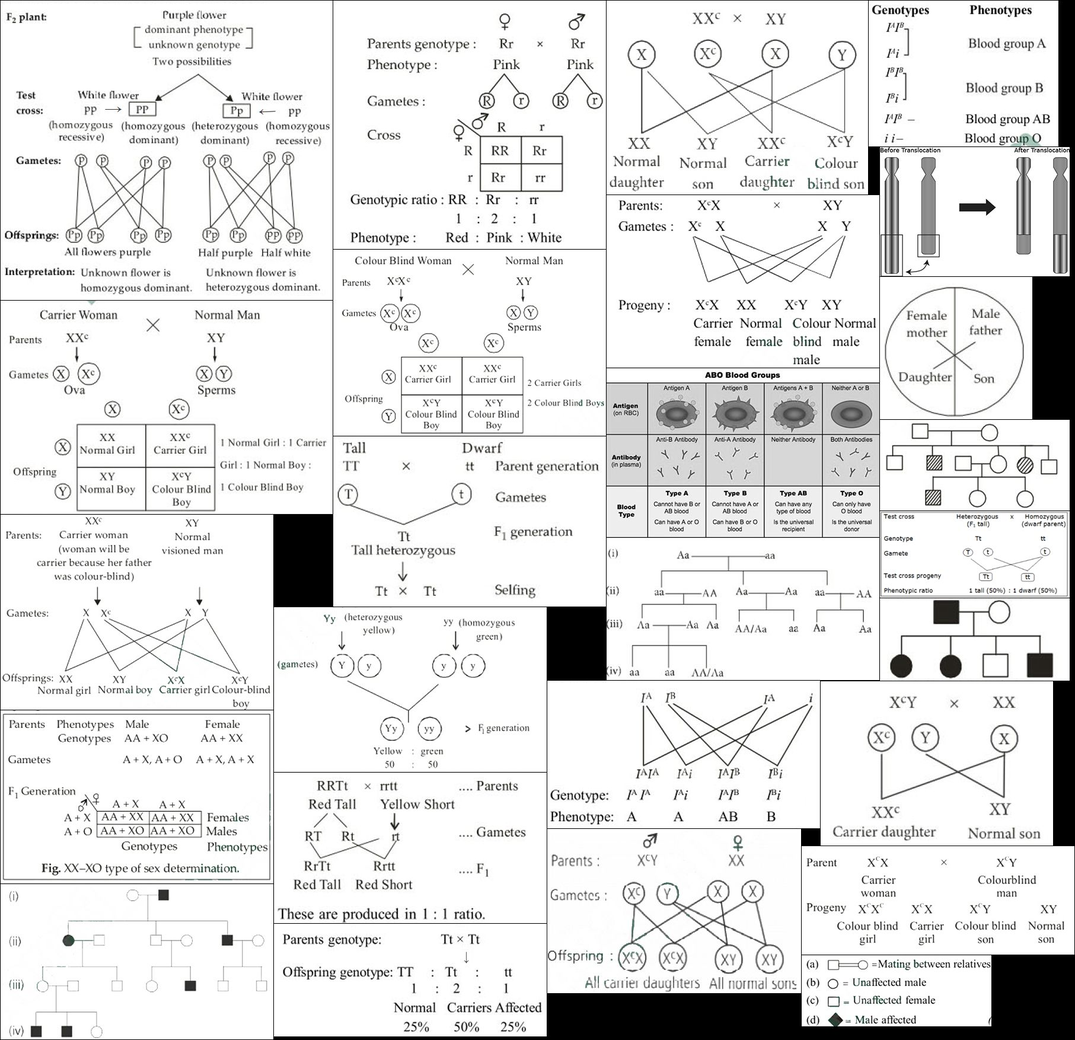
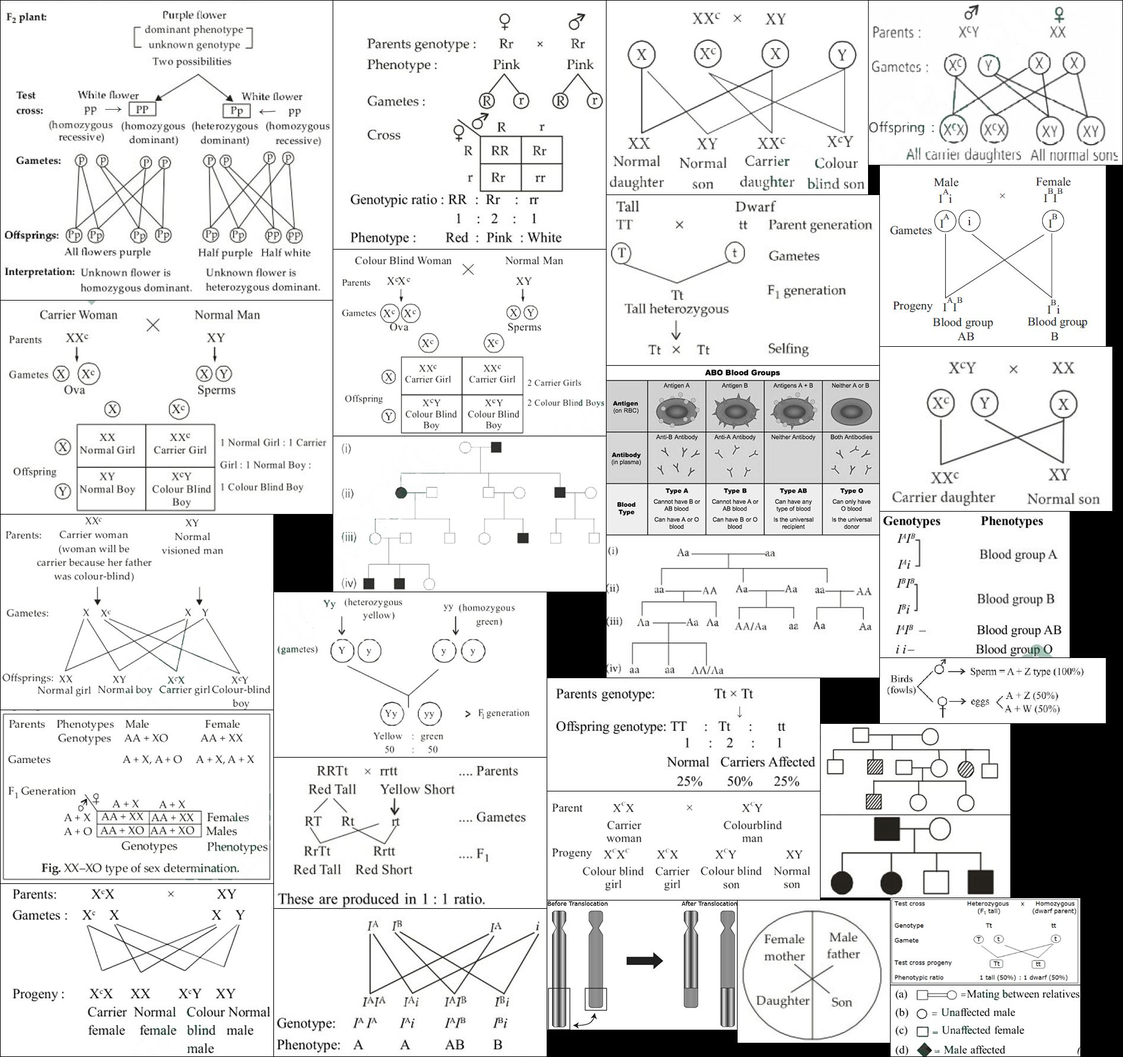
Fixed.

Changed region(s): [[0.0, 0.0, 1.0, 1.0], [0.0, 0.0, 0.0309, 0.0308]]

diff --git a/img/medical/neet/bgchap/biology_ch_27s2.css b/img/medical/neet/bgchap/biology_ch_27s2.css
@@ -8,82 +8,88 @@ Responsive: <div class="yourspritesname"></div>
 
 
 .nt_bg_prin_inheri_10_sol {max-width:460px; max-height:287px; }
-.nt_bg_prin_inheri_10_sol::after {content: '\00a0';display: inline-block; width:460px; height:287px; background-position: 41.537324464153734% 50.17041581458759%;background-size: 394.1304347826087% 611.1498257839721%;background-image: url(biology_ch_27s2.jpg);padding: 0; }
+.nt_bg_prin_inheri_10_sol::after {content: '\00a0';display: inline-block; width:460px; height:287px; background-position: 71.33891213389121% 21.99197860962567%;background-size: 411.7391304347826% 621.2543554006969%;background-image: url(biology_ch_27s2.jpg);padding: 0; }
 div.nt_bg_prin_inheri_10_sol::after {max-width:460px; width:100%;height:0;padding: 0 0 62.391304347826086% 0;}
 .nt_bg_prin_inheri_16_sol_a {max-width:392px; max-height:277px; }
-.nt_bg_prin_inheri_16_sol_a::after {content: '\00a0';display: inline-block; width:392px; height:277px; background-position: 97.39619985925404% 77.79282329045363%;background-size: 462.5% 633.2129963898917%;background-image: url(biology_ch_27s2.jpg);padding: 0; }
+.nt_bg_prin_inheri_16_sol_a::after {content: '\00a0';display: inline-block; width:392px; height:277px; background-position: 98.80159786950732% 38.844621513944226%;background-size: 483.16326530612247% 643.6823104693141%;background-image: url(biology_ch_27s2.jpg);padding: 0; }
 div.nt_bg_prin_inheri_16_sol_a::after {max-width:392px; width:100%;height:0;padding: 0 0 70.66326530612245% 0;}
 .nt_bg_prin_inheri_16_sol_b {max-width:441px; max-height:327px; }
-.nt_bg_prin_inheri_16_sol_b::after {content: '\00a0';display: inline-block; width:441px; height:327px; background-position: 74.56268221574344% 0.0700770847932726%;background-size: 411.1111111111111% 536.3914373088685%;background-image: url(biology_ch_27s2.jpg);padding: 0; }
+.nt_bg_prin_inheri_16_sol_b::after {content: '\00a0';display: inline-block; width:441px; height:327px; background-position: 70.40605643496215% 0.06868131868131869%;background-size: 429.4784580498866% 545.2599388379205%;background-image: url(biology_ch_27s2.jpg);padding: 0; }
 div.nt_bg_prin_inheri_16_sol_b::after {max-width:441px; width:100%;height:0;padding: 0 0 74.14965986394557% 0;}
 .nt_bg_prin_inheri_18 {max-width:460px; max-height:262px; }
-.nt_bg_prin_inheri_18::after {content: '\00a0';display: inline-block; width:460px; height:262px; background-position: 0.07390983000739099% 99.93297587131367%;background-size: 394.1304347826087% 669.4656488549618%;background-image: url(biology_ch_27s2.jpg);padding: 0; }
+.nt_bg_prin_inheri_18::after {content: '\00a0';display: inline-block; width:460px; height:262px; background-position: 39.19107391910739% 48.38921761998685%;background-size: 411.7391304347826% 680.5343511450382%;background-image: url(biology_ch_27s2.jpg);padding: 0; }
 div.nt_bg_prin_inheri_18::after {max-width:460px; width:100%;height:0;padding: 0 0 56.95652173913044% 0;}
 .nt_bg_prin_inheri_18_sol {max-width:460px; max-height:240px; }
-.nt_bg_prin_inheri_18_sol::after {content: '\00a0';display: inline-block; width:460px; height:240px; background-position: 75.60975609756098% 59.90752972258917%;background-size: 394.1304347826087% 730.8333333333334%;background-image: url(biology_ch_27s2.jpg);padding: 0; }
+.nt_bg_prin_inheri_18_sol::after {content: '\00a0';display: inline-block; width:460px; height:240px; background-position: 71.33891213389121% 58.52235904082955%;background-size: 411.7391304347826% 742.9166666666666%;background-image: url(biology_ch_27s2.jpg);padding: 0; }
 div.nt_bg_prin_inheri_18_sol::after {max-width:460px; width:100%;height:0;padding: 0 0 52.17391304347826% 0;}
+.nt_bg_prin_inheri_2019_1_sol {max-width:381px; max-height:305px; }
+.nt_bg_prin_inheri_2019_1_sol::after {content: '\00a0';display: inline-block; width:381px; height:305px; background-position: 98.08327825512228% 18.876860622462786%;background-size: 497.1128608923884% 584.5901639344262%;background-image: url(biology_ch_27s2.jpg);padding: 0; }
+div.nt_bg_prin_inheri_2019_1_sol::after {max-width:381px; width:100%;height:0;padding: 0 0 80.05249343832021% 0;}
+.nt_bg_prin_inheri_2019_2_sol {max-width:381px; max-height:110px; }
+.nt_bg_prin_inheri_2019_2_sol::after {content: '\00a0';display: inline-block; width:381px; height:110px; background-position: 98.08327825512228% 66.34787806335923%;background-size: 497.1128608923884% 1620.909090909091%;background-image: url(biology_ch_27s2.jpg);padding: 0; }
+div.nt_bg_prin_inheri_2019_2_sol::after {max-width:381px; width:100%;height:0;padding: 0 0 28.871391076115486% 0;}
 .nt_bg_prin_inheri_20_sol {max-width:320px; max-height:218px; }
-.nt_bg_prin_inheri_20_sol::after {content: '\00a0';display: inline-block; width:320px; height:218px; background-position: 99.39718687206965% 16.145833333333332%;background-size: 566.5625% 804.5871559633027%;background-image: url(biology_ch_27s2.jpg);padding: 0; }
+.nt_bg_prin_inheri_20_sol::after {content: '\00a0';display: inline-block; width:320px; height:218px; background-position: 58.64040660736976% 97.06070287539936%;background-size: 591.875% 817.8899082568807%;background-image: url(biology_ch_27s2.jpg);padding: 0; }
 div.nt_bg_prin_inheri_20_sol::after {max-width:320px; width:100%;height:0;padding: 0 0 68.125% 0;}
 .nt_bg_prin_inheri_27_sol {max-width:460px; max-height:291px; }
-.nt_bg_prin_inheri_27_sol::after {content: '\00a0';display: inline-block; width:460px; height:291px; background-position: 75.60975609756098% 22.48803827751196%;background-size: 394.1304347826087% 602.7491408934708%;background-image: url(biology_ch_27s2.jpg);padding: 0; }
+.nt_bg_prin_inheri_27_sol::after {content: '\00a0';display: inline-block; width:460px; height:291px; background-position: 0.0697350069735007% 99.93297587131367%;background-size: 411.7391304347826% 612.7147766323025%;background-image: url(biology_ch_27s2.jpg);padding: 0; }
 div.nt_bg_prin_inheri_27_sol::after {max-width:460px; width:100%;height:0;padding: 0 0 63.26086956521739% 0;}
 .nt_bg_prin_inheri_2_sol {max-width:460px; max-height:249px; }
-.nt_bg_prin_inheri_2_sol::after {content: '\00a0';display: inline-block; width:460px; height:249px; background-position: 68.21877309682188% 76.27906976744185%;background-size: 394.1304347826087% 704.4176706827309%;background-image: url(biology_ch_27s2.jpg);padding: 0; }
+.nt_bg_prin_inheri_2_sol::after {content: '\00a0';display: inline-block; width:460px; height:249px; background-position: 32.21757322175732% 99.9348109517601%;background-size: 411.7391304347826% 716.0642570281125%;background-image: url(biology_ch_27s2.jpg);padding: 0; }
 div.nt_bg_prin_inheri_2_sol::after {max-width:460px; width:100%;height:0;padding: 0 0 54.130434782608695% 0;}
 .nt_bg_prin_inheri_31_sol {max-width:460px; max-height:190px; }
-.nt_bg_prin_inheri_31_sol::after {content: '\00a0';display: inline-block; width:460px; height:190px; background-position: 34.146341463414636% 99.61636828644501%;background-size: 394.1304347826087% 923.1578947368421%;background-image: url(biology_ch_27s2.jpg);padding: 0; }
+.nt_bg_prin_inheri_31_sol::after {content: '\00a0';display: inline-block; width:460px; height:190px; background-position: 64.36541143654114% 71.81418706842436%;background-size: 411.7391304347826% 938.421052631579%;background-image: url(biology_ch_27s2.jpg);padding: 0; }
 div.nt_bg_prin_inheri_31_sol::after {max-width:460px; width:100%;height:0;padding: 0 0 41.30434782608695% 0;}
 .nt_bg_prin_inheri_36_sol {max-width:460px; max-height:329px; }
-.nt_bg_prin_inheri_36_sol::after {content: '\00a0';display: inline-block; width:460px; height:329px; background-position: 0.07390983000739099% 60.91228070175438%;background-size: 394.1304347826087% 533.1306990881459%;background-image: url(biology_ch_27s2.jpg);padding: 0; }
+.nt_bg_prin_inheri_36_sol::after {content: '\00a0';display: inline-block; width:460px; height:329px; background-position: 0.0697350069735007% 59.69738651994498%;background-size: 411.7391304347826% 541.9452887537994%;background-image: url(biology_ch_27s2.jpg);padding: 0; }
 div.nt_bg_prin_inheri_36_sol::after {max-width:460px; width:100%;height:0;padding: 0 0 71.52173913043478% 0;}
 .nt_bg_prin_inheri_38 {max-width:257px; max-height:240px; }
-.nt_bg_prin_inheri_38::after {content: '\00a0';display: inline-block; width:257px; height:240px; background-position: 95.37275064267352% 30.84544253632761%;background-size: 705.4474708171206% 730.8333333333334%;background-image: url(biology_ch_27s2.jpg);padding: 0; }
+.nt_bg_prin_inheri_38::after {content: '\00a0';display: inline-block; width:257px; height:240px; background-position: 75.9926695174099% 98.44458846403111%;background-size: 736.964980544747% 742.9166666666666%;background-image: url(biology_ch_27s2.jpg);padding: 0; }
 div.nt_bg_prin_inheri_38::after {max-width:257px; width:100%;height:0;padding: 0 0 93.3852140077821% 0;}
 .nt_bg_prin_inheri_39_sol {max-width:560px; max-height:505px; }
-.nt_bg_prin_inheri_39_sol::after {content: '\00a0';display: inline-block; width:560px; height:505px; background-position: 0.07980845969672785% 0.08006405124099279%;background-size: 323.75% 347.3267326732673%;background-image: url(biology_ch_27s2.jpg);padding: 0; }
+.nt_bg_prin_inheri_39_sol::after {content: '\00a0';display: inline-block; width:560px; height:505px; background-position: 0.07496251874062969% 0.0782472613458529%;background-size: 338.2142857142857% 353.0693069306931%;background-image: url(biology_ch_27s2.jpg);padding: 0; }
 div.nt_bg_prin_inheri_39_sol::after {max-width:560px; width:100%;height:0;padding: 0 0 90.17857142857143% 0;}
 .nt_bg_prin_inheri_41_sol {max-width:460px; max-height:292px; }
-.nt_bg_prin_inheri_41_sol::after {content: '\00a0';display: inline-block; width:460px; height:292px; background-position: 0.07390983000739099% 81.94254445964432%;background-size: 394.1304347826087% 600.6849315068494%;background-image: url(biology_ch_27s2.jpg);padding: 0; }
+.nt_bg_prin_inheri_41_sol::after {content: '\00a0';display: inline-block; width:460px; height:292px; background-position: 0.0697350069735007% 80.34875922199866%;background-size: 411.7391304347826% 610.6164383561644%;background-image: url(biology_ch_27s2.jpg);padding: 0; }
 div.nt_bg_prin_inheri_41_sol::after {max-width:460px; width:100%;height:0;padding: 0 0 63.47826086956522% 0;}
 .nt_bg_prin_inheri_44 {max-width:320px; max-height:120px; }
-.nt_bg_prin_inheri_44::after {content: '\00a0';display: inline-block; width:320px; height:120px; background-position: 90.55592766242465% 98.59241126070991%;background-size: 566.5625% 1461.6666666666667%;background-image: url(biology_ch_27s2.jpg);padding: 0; }
+.nt_bg_prin_inheri_44::after {content: '\00a0';display: inline-block; width:320px; height:120px; background-position: 95.42566709021601% 99.93986770895971%;background-size: 591.875% 1485.8333333333333%;background-image: url(biology_ch_27s2.jpg);padding: 0; }
 div.nt_bg_prin_inheri_44::after {max-width:320px; width:100%;height:0;padding: 0 0 37.5% 0;}
 .nt_bg_prin_inheri_45_sol {max-width:320px; max-height:246px; }
-.nt_bg_prin_inheri_45_sol::after {content: '\00a0';display: inline-block; width:320px; height:246px; background-position: 98.12458137977227% 0.06631299734748011%;background-size: 566.5625% 713.0081300813008%;background-image: url(biology_ch_27s2.jpg);padding: 0; }
+.nt_bg_prin_inheri_45_sol::after {content: '\00a0';display: inline-block; width:320px; height:246px; background-position: 94.28208386277001% 56.14834092387768%;background-size: 591.875% 724.7967479674796%;background-image: url(biology_ch_27s2.jpg);padding: 0; }
 div.nt_bg_prin_inheri_45_sol::after {max-width:320px; width:100%;height:0;padding: 0 0 76.875% 0;}
 .nt_bg_prin_inheri_49_sol {max-width:460px; max-height:285px; }
-.nt_bg_prin_inheri_49_sol::after {content: '\00a0';display: inline-block; width:460px; height:285px; background-position: 75.60975609756098% 42.27365554799183%;background-size: 394.1304347826087% 615.438596491228%;background-image: url(biology_ch_27s2.jpg);padding: 0; }
+.nt_bg_prin_inheri_49_sol::after {content: '\00a0';display: inline-block; width:460px; height:285px; background-position: 71.33891213389121% 41.18825100133511%;background-size: 411.7391304347826% 625.6140350877193%;background-image: url(biology_ch_27s2.jpg);padding: 0; }
 div.nt_bg_prin_inheri_49_sol::after {max-width:460px; width:100%;height:0;padding: 0 0 61.95652173913044% 0;}
 .nt_bg_prin_inheri_50 {max-width:320px; max-height:139px; }
-.nt_bg_prin_inheri_50::after {content: '\00a0';display: inline-block; width:320px; height:139px; background-position: 99.39718687206965% 62.476780185758514%;background-size: 566.5625% 1261.8705035971223%;background-image: url(biology_ch_27s2.jpg);padding: 0; }
+.nt_bg_prin_inheri_50::after {content: '\00a0';display: inline-block; width:320px; height:139px; background-position: 87.92884371029226% 83.63746958637469%;background-size: 591.875% 1282.7338129496402%;background-image: url(biology_ch_27s2.jpg);padding: 0; }
 div.nt_bg_prin_inheri_50::after {max-width:320px; width:100%;height:0;padding: 0 0 43.4375% 0;}
 .nt_bg_prin_inheri_52_sol {max-width:460px; max-height:419px; }
-.nt_bg_prin_inheri_52_sol::after {content: '\00a0';display: inline-block; width:460px; height:419px; background-position: 41.537324464153734% 0.0749063670411985%;background-size: 394.1304347826087% 418.6157517899761%;background-image: url(biology_ch_27s2.jpg);padding: 0; }
+.nt_bg_prin_inheri_52_sol::after {content: '\00a0';display: inline-block; width:460px; height:419px; background-position: 39.19107391910739% 0.07331378299120235%;background-size: 411.7391304347826% 425.5369928400955%;background-image: url(biology_ch_27s2.jpg);padding: 0; }
 div.nt_bg_prin_inheri_52_sol::after {max-width:460px; width:100%;height:0;padding: 0 0 91.08695652173913% 0;}
 .nt_bg_prin_inheri_57 {max-width:320px; max-height:153px; }
-.nt_bg_prin_inheri_57::after {content: '\00a0';display: inline-block; width:320px; height:153px; background-position: 99.39718687206965% 44.22236102435978%;background-size: 566.5625% 1146.4052287581699%;background-image: url(biology_ch_27s2.jpg);padding: 0; }
+.nt_bg_prin_inheri_57::after {content: '\00a0';display: inline-block; width:320px; height:153px; background-position: 87.92884371029226% 74.9079754601227%;background-size: 591.875% 1165.359477124183%;background-image: url(biology_ch_27s2.jpg);padding: 0; }
 div.nt_bg_prin_inheri_57::after {max-width:320px; width:100%;height:0;padding: 0 0 47.8125% 0;}
 .nt_bg_prin_inheri_60_sol {max-width:460px; max-height:278px; }
-.nt_bg_prin_inheri_60_sol::after {content: '\00a0';display: inline-block; width:460px; height:278px; background-position: 34.146341463414636% 69.37669376693766%;background-size: 394.1304347826087% 630.9352517985611%;background-image: url(biology_ch_27s2.jpg);padding: 0; }
+.nt_bg_prin_inheri_60_sol::after {content: '\00a0';display: inline-block; width:460px; height:278px; background-position: 32.21757322175732% 66.37873754152824%;background-size: 411.7391304347826% 641.3669064748201%;background-image: url(biology_ch_27s2.jpg);padding: 0; }
 div.nt_bg_prin_inheri_60_sol::after {max-width:460px; width:100%;height:0;padding: 0 0 60.43478260869565% 0;}
 .nt_bg_prin_inheri_64_sol {max-width:320px; max-height:146px; }
-.nt_bg_prin_inheri_64_sol::after {content: '\00a0';display: inline-block; width:320px; height:146px; background-position: 99.39718687206965% 53.60696517412935%;background-size: 566.5625% 1201.3698630136987%;background-image: url(biology_ch_27s2.jpg);padding: 0; }
+.nt_bg_prin_inheri_64_sol::after {content: '\00a0';display: inline-block; width:320px; height:146px; background-position: 95.42566709021601% 92.5473427000611%;background-size: 591.875% 1221.2328767123288%;background-image: url(biology_ch_27s2.jpg);padding: 0; }
 div.nt_bg_prin_inheri_64_sol::after {max-width:320px; width:100%;height:0;padding: 0 0 45.625% 0;}
 .nt_bg_prin_inheri_66_sol {max-width:460px; max-height:314px; }
-.nt_bg_prin_inheri_66_sol::after {content: '\00a0';display: inline-block; width:460px; height:314px; background-position: 41.537324464153734% 29.23611111111111%;background-size: 394.1304347826087% 558.5987261146497%;background-image: url(biology_ch_27s2.jpg);padding: 0; }
+.nt_bg_prin_inheri_66_sol::after {content: '\00a0';display: inline-block; width:460px; height:314px; background-position: 39.19107391910739% 28.658951667801226%;background-size: 411.7391304347826% 567.8343949044586%;background-image: url(biology_ch_27s2.jpg);padding: 0; }
 div.nt_bg_prin_inheri_66_sol::after {max-width:460px; width:100%;height:0;padding: 0 0 68.26086956521739% 0;}
 .nt_bg_prin_inheri_75_sol {max-width:560px; max-height:360px; }
-.nt_bg_prin_inheri_75_sol::after {content: '\00a0';display: inline-block; width:560px; height:360px; background-position: 0.07980845969672785% 36.37015781922525%;background-size: 323.75% 487.22222222222223%;background-image: url(biology_ch_27s2.jpg);padding: 0; }
+.nt_bg_prin_inheri_75_sol::after {content: '\00a0';display: inline-block; width:560px; height:360px; background-position: 0.07496251874062969% 35.628952916373855%;background-size: 338.2142857142857% 495.27777777777777%;background-image: url(biology_ch_27s2.jpg);padding: 0; }
 div.nt_bg_prin_inheri_75_sol::after {max-width:560px; width:100%;height:0;padding: 0 0 64.28571428571429% 0;}
 .nt_bg_prin_inheri_79_sol {max-width:460px; max-height:183px; }
-.nt_bg_prin_inheri_79_sol::after {content: '\00a0';display: inline-block; width:460px; height:183px; background-position: 99.9260901699926% 90.83386378103118%;background-size: 394.1304347826087% 958.4699453551913%;background-image: url(biology_ch_27s2.jpg);padding: 0; }
+.nt_bg_prin_inheri_79_sol::after {content: '\00a0';display: inline-block; width:460px; height:183px; background-position: 64.36541143654114% 83.4375%;background-size: 411.7391304347826% 974.3169398907104%;background-image: url(biology_ch_27s2.jpg);padding: 0; }
 div.nt_bg_prin_inheri_79_sol::after {max-width:460px; width:100%;height:0;padding: 0 0 39.78260869565217% 0;}
 .nt_bg_prin_inheri_7_sol {max-width:428px; max-height:277px; }
-.nt_bg_prin_inheri_7_sol::after {content: '\00a0';display: inline-block; width:428px; height:277px; background-position: 66.64259927797833% 94.6513202437373%;background-size: 423.5981308411215% 633.2129963898917%;background-image: url(biology_ch_27s2.jpg);padding: 0; }
+.nt_bg_prin_inheri_7_sol::after {content: '\00a0';display: inline-block; width:428px; height:277px; background-position: 99.93178717598909% 0.06640106241699867%;background-size: 442.5233644859813% 643.6823104693141%;background-image: url(biology_ch_27s2.jpg);padding: 0; }
 div.nt_bg_prin_inheri_7_sol::after {max-width:428px; width:100%;height:0;padding: 0 0 64.7196261682243% 0;}
 .nt_bg_prin_inheri_80_sol {max-width:460px; max-height:254px; }
-.nt_bg_prin_inheri_80_sol::after {content: '\00a0';display: inline-block; width:460px; height:254px; background-position: 34.146341463414636% 86.86666666666666%;background-size: 394.1304347826087% 690.5511811023622%;background-image: url(biology_ch_27s2.jpg);padding: 0; }
+.nt_bg_prin_inheri_80_sol::after {content: '\00a0';display: inline-block; width:460px; height:254px; background-position: 32.21757322175732% 83.58404185742316%;background-size: 411.7391304347826% 701.9685039370079%;background-image: url(biology_ch_27s2.jpg);padding: 0; }
 div.nt_bg_prin_inheri_80_sol::after {max-width:460px; width:100%;height:0;padding: 0 0 55.21739130434783% 0;}
 
-/* $TexturePacker:SmartUpdate:23866e91262fa1679787550627d9732a:9ca9df8369697e671e5f0b37e3e93854:e19ce29bf94abcca14d977675cac6c6d$ */
+/* $TexturePacker:SmartUpdate:72c0e6a6eb834f5d9f926ae209124d9a:e884ef3cbd6f66250edd1f5392a402cb:e19ce29bf94abcca14d977675cac6c6d$ */

diff --git a/img/medical/neet/bgchap/biology_ch_28_30.css b/img/medical/neet/bgchap/biology_ch_28_30.css
@@ -8,34 +8,37 @@ Responsive: <div class="yourspritesname"></div>
 
 
 .nt_bg_human_health_15 {max-width:285px; max-height:281px; }
-.nt_bg_human_health_15::after {content: '\00a0';display: inline-block; width:285px; height:281px; background-position: 99.93975903614458% 0.5076142131979695%;background-size: 682.4561403508771% 170.1067615658363%;background-image: url(biology_ch_28_30.jpg);padding: 0; }
+.nt_bg_human_health_15::after {content: '\00a0';display: inline-block; width:285px; height:281px; background-position: 50.78313253012048% 0.5076142131979695%;background-size: 682.4561403508771% 170.1067615658363%;background-image: url(biology_ch_28_30.jpg);padding: 0; }
 div.nt_bg_human_health_15::after {max-width:285px; width:100%;height:0;padding: 0 0 98.59649122807018% 0;}
 .nt_bg_human_health_26a {max-width:460px; max-height:314px; }
-.nt_bg_human_health_26a::after {content: '\00a0';display: inline-block; width:460px; height:314px; background-position: 0.06734006734006734% 0.6097560975609756%;background-size: 422.82608695652175% 152.22929936305732%;background-image: url(biology_ch_28_30.jpg);padding: 0; }
+.nt_bg_human_health_26a::after {content: '\00a0';display: inline-block; width:460px; height:314px; background-position: 25.723905723905723% 0.6097560975609756%;background-size: 422.82608695652175% 152.22929936305732%;background-image: url(biology_ch_28_30.jpg);padding: 0; }
 div.nt_bg_human_health_26a::after {max-width:460px; width:100%;height:0;padding: 0 0 68.26086956521739% 0;}
 .nt_bg_human_health_26b {max-width:320px; max-height:121px; }
-.nt_bg_human_health_26b::after {content: '\00a0';display: inline-block; width:320px; height:121px; background-position: 28.43076923076923% 98.31932773109244%;background-size: 607.8125% 395.0413223140496%;background-image: url(biology_ch_28_30.jpg);padding: 0; }
+.nt_bg_human_health_26b::after {content: '\00a0';display: inline-block; width:320px; height:121px; background-position: 0.06153846153846154% 98.31932773109244%;background-size: 607.8125% 395.0413223140496%;background-image: url(biology_ch_28_30.jpg);padding: 0; }
 div.nt_bg_human_health_26b::after {max-width:320px; width:100%;height:0;padding: 0 0 37.8125% 0;}
 .nt_bg_mole_basis_inheri_123_sol {max-width:460px; max-height:254px; }
-.nt_bg_mole_basis_inheri_123_sol::after {content: '\00a0';display: inline-block; width:460px; height:254px; background-position: 56.76767676767677% 0.44642857142857145%;background-size: 422.82608695652175% 188.18897637795277%;background-image: url(biology_ch_28_30.jpg);padding: 0; }
+.nt_bg_mole_basis_inheri_123_sol::after {content: '\00a0';display: inline-block; width:460px; height:254px; background-position: 99.93265993265993% 0.44642857142857145%;background-size: 422.82608695652175% 188.18897637795277%;background-image: url(biology_ch_28_30.jpg);padding: 0; }
 div.nt_bg_mole_basis_inheri_123_sol::after {max-width:460px; width:100%;height:0;padding: 0 0 55.21739130434783% 0;}
 .nt_bg_mole_basis_inheri_1_sol {max-width:354px; max-height:280px; }
-.nt_bg_mole_basis_inheri_1_sol::after {content: '\00a0';display: inline-block; width:354px; height:280px; background-position: 81.9610307982401% 0.5050505050505051%;background-size: 549.4350282485875% 170.71428571428572%;background-image: url(biology_ch_28_30.jpg);padding: 0; }
+.nt_bg_mole_basis_inheri_1_sol::after {content: '\00a0';display: inline-block; width:354px; height:280px; background-position: 70.96165933375235% 0.5050505050505051%;background-size: 549.4350282485875% 170.71428571428572%;background-image: url(biology_ch_28_30.jpg);padding: 0; }
 div.nt_bg_mole_basis_inheri_1_sol::after {max-width:354px; width:100%;height:0;padding: 0 0 79.09604519774011% 0;}
+.nt_bg_mole_basis_inheri_2019_1_sol {max-width:297px; max-height:119px; }
+.nt_bg_mole_basis_inheri_2019_1_sol::after {content: '\00a0';display: inline-block; width:297px; height:119px; background-position: 19.538834951456312% 97.7715877437326%;background-size: 654.8821548821549% 401.6806722689076%;background-image: url(biology_ch_28_30.jpg);padding: 0; }
+div.nt_bg_mole_basis_inheri_2019_1_sol::after {max-width:297px; width:100%;height:0;padding: 0 0 40.06734006734007% 0;}
 .nt_bg_mole_basis_inheri_25 {max-width:450px; max-height:88px; }
-.nt_bg_mole_basis_inheri_25::after {content: '\00a0';display: inline-block; width:450px; height:88px; background-position: 0.06688963210702341% 81.02564102564102%;background-size: 432.22222222222223% 543.1818181818181%;background-image: url(biology_ch_28_30.jpg);padding: 0; }
+.nt_bg_mole_basis_inheri_25::after {content: '\00a0';display: inline-block; width:450px; height:88px; background-position: 41.47157190635451% 81.02564102564102%;background-size: 432.22222222222223% 543.1818181818181%;background-image: url(biology_ch_28_30.jpg);padding: 0; }
 div.nt_bg_mole_basis_inheri_25::after {max-width:450px; width:100%;height:0;padding: 0 0 19.555555555555557% 0;}
 .nt_bg_mole_basis_inheri_27 {max-width:460px; max-height:57px; }
-.nt_bg_mole_basis_inheri_27::after {content: '\00a0';display: inline-block; width:460px; height:57px; background-position: 0.06734006734006734% 96.19952494061758%;background-size: 422.82608695652175% 838.5964912280701%;background-image: url(biology_ch_28_30.jpg);padding: 0; }
+.nt_bg_mole_basis_inheri_27::after {content: '\00a0';display: inline-block; width:460px; height:57px; background-position: 41.75084175084175% 96.19952494061758%;background-size: 422.82608695652175% 838.5964912280701%;background-image: url(biology_ch_28_30.jpg);padding: 0; }
 div.nt_bg_mole_basis_inheri_27::after {max-width:460px; width:100%;height:0;padding: 0 0 12.391304347826088% 0;}
 .nt_bg_mole_basis_inheri_45_sol {max-width:370px; max-height:194px; }
-.nt_bg_mole_basis_inheri_45_sol::after {content: '\00a0';display: inline-block; width:370px; height:194px; background-position: 82.7936507936508% 99.64788732394366%;background-size: 525.6756756756756% 246.39175257731958%;background-image: url(biology_ch_28_30.jpg);padding: 0; }
+.nt_bg_mole_basis_inheri_45_sol::after {content: '\00a0';display: inline-block; width:370px; height:194px; background-position: 68.63492063492063% 99.64788732394366%;background-size: 525.6756756756756% 246.39175257731958%;background-image: url(biology_ch_28_30.jpg);padding: 0; }
 div.nt_bg_mole_basis_inheri_45_sol::after {max-width:370px; width:100%;height:0;padding: 0 0 52.432432432432435% 0;}
 .nt_bg_mole_basis_inheri_69_sol {max-width:380px; max-height:349px; }
-.nt_bg_mole_basis_inheri_69_sol::after {content: '\00a0';display: inline-block; width:380px; height:349px; background-position: 29.52076677316294% 0.7751937984496124%;background-size: 511.8421052631579% 136.96275071633238%;background-image: url(biology_ch_28_30.jpg);padding: 0; }
+.nt_bg_mole_basis_inheri_69_sol::after {content: '\00a0';display: inline-block; width:380px; height:349px; background-position: 0.06389776357827476% 0.7751937984496124%;background-size: 511.8421052631579% 136.96275071633238%;background-image: url(biology_ch_28_30.jpg);padding: 0; }
 div.nt_bg_mole_basis_inheri_69_sol::after {max-width:380px; width:100%;height:0;padding: 0 0 91.84210526315789% 0;}
 .nt_bg_mole_basis_inheri_83_sol {max-width:460px; max-height:216px; }
-.nt_bg_mole_basis_inheri_83_sol::after {content: '\00a0';display: inline-block; width:460px; height:216px; background-position: 56.76767676767677% 97.70992366412214%;background-size: 422.82608695652175% 221.2962962962963%;background-image: url(biology_ch_28_30.jpg);padding: 0; }
+.nt_bg_mole_basis_inheri_83_sol::after {content: '\00a0';display: inline-block; width:460px; height:216px; background-position: 99.93265993265993% 97.70992366412214%;background-size: 422.82608695652175% 221.2962962962963%;background-image: url(biology_ch_28_30.jpg);padding: 0; }
 div.nt_bg_mole_basis_inheri_83_sol::after {max-width:460px; width:100%;height:0;padding: 0 0 46.95652173913044% 0;}
 
-/* $TexturePacker:SmartUpdate:104e4c76da058ed6987dc56a8285b7e9:e500ba8bbc7386820d6b2cbc1ed41eb6:6cf36d95da68feb3078425e8b31ca2d2$ */
+/* $TexturePacker:SmartUpdate:fa26aa6e90ca6074cc233084e1b3be0b:c1ec816836e29948bdc4f624d931df54:6cf36d95da68feb3078425e8b31ca2d2$ */

diff --git a/img/medical/neet/bgchap/biology_ch_31_35.css b/img/medical/neet/bgchap/biology_ch_31_35.css
@@ -7,29 +7,32 @@ Responsive: <div class="yourspritesname"></div>
 */
 
 
+.nt_bg_biotechnology_prin_2019_1_sol {max-width:352px; max-height:317px; }
+.nt_bg_biotechnology_prin_2019_1_sol::after {content: '\00a0';display: inline-block; width:352px; height:317px; background-position: 76.05893186003684% 93.40501792114695%;background-size: 254.26136363636363% 540.0630914826498%;background-image: url(biology_ch_31_35.jpg);padding: 0; }
+div.nt_bg_biotechnology_prin_2019_1_sol::after {max-width:352px; width:100%;height:0;padding: 0 0 90.05681818181819% 0;}
 .nt_bg_biotechnology_prin_23 {max-width:320px; max-height:285px; }
-.nt_bg_biotechnology_prin_23::after {content: '\00a0';display: inline-block; width:320px; height:285px; background-position: 78.11080835603997% 62.880886426592795%;background-size: 444.0625% 353.3333333333333%;background-image: url(biology_ch_31_35.jpg);padding: 0; }
+.nt_bg_biotechnology_prin_23::after {content: '\00a0';display: inline-block; width:320px; height:285px; background-position: 97.73913043478261% 18.500350385423967%;background-size: 279.6875% 600.7017543859649%;background-image: url(biology_ch_31_35.jpg);padding: 0; }
 div.nt_bg_biotechnology_prin_23::after {max-width:320px; width:100%;height:0;padding: 0 0 89.0625% 0;}
-.nt_bg_biotechnology_prin_30 {max-width:460px; max-height:298px; }
-.nt_bg_biotechnology_prin_30::after {content: '\00a0';display: inline-block; width:460px; height:298px; background-position: 41.51925078043705% 63.751763046544426%;background-size: 308.9130434782609% 337.91946308724835%;background-image: url(biology_ch_31_35.jpg);padding: 0; }
-div.nt_bg_biotechnology_prin_30::after {max-width:460px; width:100%;height:0;padding: 0 0 64.78260869565217% 0;}
+.nt_bg_biotechnology_prin_30 {max-width:485px; max-height:307px; }
+.nt_bg_biotechnology_prin_30::after {content: '\00a0';display: inline-block; width:485px; height:307px; background-position: 0.24390243902439024% 32.170818505338076%;background-size: 184.53608247422682% 557.6547231270358%;background-image: url(biology_ch_31_35.jpg);padding: 0; }
+div.nt_bg_biotechnology_prin_30::after {max-width:485px; width:100%;height:0;padding: 0 0 63.29896907216495% 0;}
 .nt_bg_biotechnology_prin_30_sol {max-width:460px; max-height:452px; }
-.nt_bg_biotechnology_prin_30_sol::after {content: '\00a0';display: inline-block; width:460px; height:452px; background-position: 99.89594172736733% 0.18018018018018017%;background-size: 308.9130434782609% 222.78761061946904%;background-image: url(biology_ch_31_35.jpg);padding: 0; }
+.nt_bg_biotechnology_prin_30_sol::after {content: '\00a0';display: inline-block; width:460px; height:452px; background-position: 0.22988505747126436% 60.317460317460316%;background-size: 194.56521739130434% 378.76106194690266%;background-image: url(biology_ch_31_35.jpg);padding: 0; }
 div.nt_bg_biotechnology_prin_30_sol::after {max-width:460px; width:100%;height:0;padding: 0 0 98.26086956521739% 0;}
 .nt_bg_organisms_popul_13 {max-width:332px; max-height:262px; }
-.nt_bg_organisms_popul_13::after {content: '\00a0';display: inline-block; width:332px; height:262px; background-position: 78.97153351698806% 99.32885906040268%;background-size: 428.0120481927711% 384.35114503816794%;background-image: url(biology_ch_31_35.jpg);padding: 0; }
+.nt_bg_organisms_popul_13::after {content: '\00a0';display: inline-block; width:332px; height:262px; background-position: 99.82238010657194% 0.06896551724137931%;background-size: 269.578313253012% 653.4351145038167%;background-image: url(biology_ch_31_35.jpg);padding: 0; }
 div.nt_bg_organisms_popul_13::after {max-width:332px; width:100%;height:0;padding: 0 0 78.91566265060241% 0;}
 .nt_bg_organisms_popul_22 {max-width:411px; max-height:242px; }
-.nt_bg_organisms_popul_22::after {content: '\00a0';display: inline-block; width:411px; height:242px; background-position: 0.09900990099009901% 98.56209150326798%;background-size: 345.74209245742094% 416.11570247933884%;background-image: url(biology_ch_31_35.jpg);padding: 0; }
+.nt_bg_organisms_popul_22::after {content: '\00a0';display: inline-block; width:411px; height:242px; background-position: 0.2066115702479339% 82.51700680272108%;background-size: 217.76155717761557% 707.4380165289256%;background-image: url(biology_ch_31_35.jpg);padding: 0; }
 div.nt_bg_organisms_popul_22::after {max-width:411px; width:100%;height:0;padding: 0 0 58.880778588807786% 0;}
 .nt_bg_organisms_popul_27 {max-width:376px; max-height:255px; }
-.nt_bg_organisms_popul_27::after {content: '\00a0';display: inline-block; width:376px; height:255px; background-position: 39.52153110047847% 99.86702127659575%;background-size: 377.9255319148936% 394.9019607843137%;background-image: url(biology_ch_31_35.jpg);padding: 0; }
+.nt_bg_organisms_popul_27::after {content: '\00a0';display: inline-block; width:376px; height:255px; background-position: 0.1926782273603083% 99.93136582017844%;background-size: 238.03191489361703% 671.3725490196078%;background-image: url(biology_ch_31_35.jpg);padding: 0; }
 div.nt_bg_organisms_popul_27::after {max-width:376px; width:100%;height:0;padding: 0 0 67.81914893617021% 0;}
 .nt_bg_organisms_popul_30 {max-width:397px; max-height:752px; }
-.nt_bg_organisms_popul_30::after {content: '\00a0';display: inline-block; width:397px; height:752px; background-position: 0.09765625% 0.39215686274509803%;background-size: 357.9345088161209% 133.9095744680851%;background-image: url(biology_ch_31_35.jpg);padding: 0; }
+.nt_bg_organisms_popul_30::after {content: '\00a0';display: inline-block; width:397px; height:752px; background-position: 97.79116465863454% 57.291666666666664%;background-size: 225.44080604534005% 227.6595744680851%;background-image: url(biology_ch_31_35.jpg);padding: 0; }
 div.nt_bg_organisms_popul_30::after {max-width:397px; width:100%;height:0;padding: 0 0 189.4206549118388% 0;}
 .nt_bg_strategies_46_sol {max-width:560px; max-height:450px; }
-.nt_bg_strategies_46_sol::after {content: '\00a0';display: inline-block; width:560px; height:450px; background-position: 46.34146341463415% 0.17953321364452424%;background-size: 253.75% 223.77777777777777%;background-image: url(biology_ch_31_35.jpg);padding: 0; }
+.nt_bg_strategies_46_sol::after {content: '\00a0';display: inline-block; width:560px; height:450px; background-position: 0.29850746268656714% 0.07923930269413629%;background-size: 159.82142857142858% 380.44444444444446%;background-image: url(biology_ch_31_35.jpg);padding: 0; }
 div.nt_bg_strategies_46_sol::after {max-width:560px; width:100%;height:0;padding: 0 0 80.35714285714286% 0;}
 
-/* $TexturePacker:SmartUpdate:59203b86f44b88bf52c79c44a1d1636b:3f88c9b1b28332d48a619137e1779807:3566057cf43b3b18bad5686d2711e4c2$ */
+/* $TexturePacker:SmartUpdate:2e7f6850982d6d17cd58513f09ad47ce:6d38b645ece0f9da19c7e21ba638f19c:3566057cf43b3b18bad5686d2711e4c2$ */
